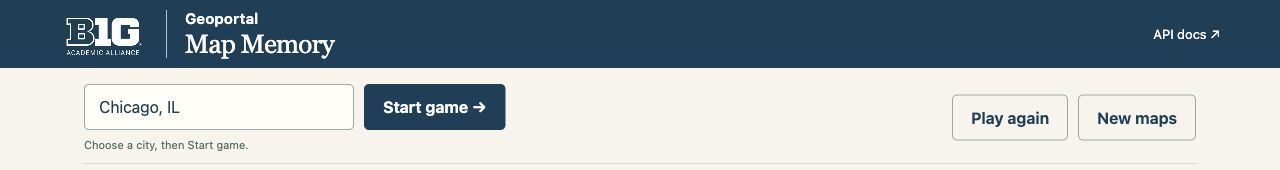
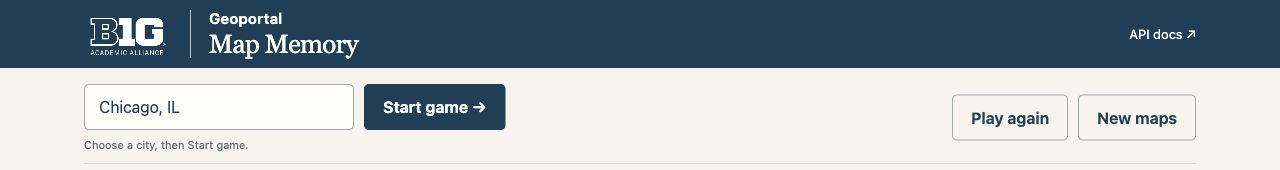
Align Map Memory sections to one shared page width

Changed region(s): [[0.0312, 0.0588, 0.2812, 0.3529], [0.875, 0.1765, 0.9688, 0.2353]]

diff --git a/apps/map-memory/styles.css b/apps/map-memory/styles.css
@@ -6,6 +6,8 @@
   --blue:#163f59;
   --line:#d7d9cc;
   --green:#345e46;
+  --page-gutter:24px;
+  --page-max-width:1112px;
 }
 * {
   box-sizing:border-box;
@@ -44,24 +46,30 @@ button:focus-visible,a:focus-visible,input:focus-visible {
 [hidden] {
   display:none!important;
 }
+.page-width {
+  width:min(var(--page-max-width),calc(100% - 2 * var(--page-gutter)));
+  margin-inline:auto;
+}
 .app-header {
   position:sticky;
   top:0;
   z-index:5;
   min-height:68px;
-  padding:8px max(24px,calc((100vw - 1160px)/2));
-  display:flex;
-  align-items:center;
-  justify-content:space-between;
-  gap:20px;
+  padding:8px 0;
   background:var(--blue);
   color:#fff;
   font-size:13px;
 }
+.header-inner {
+  display:flex;
+  align-items:center;
+  justify-content:space-between;
+  gap:20px;
+}
 .app-header a {
   text-decoration:none;
 }
-.app-header > a:last-child {
+.header-inner > a:last-child {
   white-space:nowrap;
 }
 .brand {
@@ -103,9 +111,7 @@ h1 {
   white-space:nowrap;
 }
 main {
-  max-width:1160px;
-  margin:auto;
-  padding:16px 24px 0;
+  padding:16px 0 0;
 }
 .eyebrow {
   text-transform:uppercase;
@@ -234,8 +240,7 @@ h2 {
   display:grid;
   grid-template-columns:repeat(4,minmax(0,1fr));
   gap:12px;
-  width:min(100%,var(--board-width,100%));
-  margin-inline:auto;
+  width:100%;
 }
 .card {
   position:relative;
@@ -402,8 +407,7 @@ h2 {
   line-height:1.5;
 }
 footer {
-  max-width:1112px;
-  margin:10px auto 0;
+  margin-top:10px;
   padding:24px 0;
   display:flex;
   justify-content:space-between;
@@ -424,12 +428,17 @@ footer {
   border:0;
 }
 @media(max-width:700px) {
+  :root {
+    --page-gutter:12px;
+  }
   main {
-    padding:12px 12px 0;
+    padding:12px 0 0;
   }
   .app-header {
     min-height:56px;
-    padding:8px 12px;
+    padding:8px 0;
+  }
+  .header-inner {
     gap:8px;
   }
   .toolbar {
@@ -478,7 +487,6 @@ footer {
     display:block;
   }
   footer {
-    margin:0 16px;
     flex-direction:column;
   }
   .brand {

diff --git a/apps/map-memory/index.html b/apps/map-memory/index.html
@@ -12,10 +12,12 @@
 <body>
   <canvas id="confetti" aria-hidden="true" hidden></canvas>
   <header class="app-header">
-    <a class="brand" href="../../"><img class="brand-logo" src="assets/btaa-logo.png" alt="Big Ten Academic Alliance" width="651" height="383"><div class="brand-wordmark"><span class="brand-caption">Geoportal</span><h1 id="title">Map Memory</h1></div></a>
-    <a href="https://geo.btaa.org/api/docs">API docs ↗</a>
+    <div class="header-inner page-width">
+      <a class="brand" href="../../"><img class="brand-logo" src="assets/btaa-logo.png" alt="Big Ten Academic Alliance" width="651" height="383"><div class="brand-wordmark"><span class="brand-caption">Geoportal</span><h1 id="title">Map Memory</h1></div></a>
+      <a href="https://geo.btaa.org/api/docs">API docs ↗</a>
+    </div>
   </header>
-  <main>
+  <main class="page-width">
     <section class="toolbar" aria-label="Game controls">
       <form id="cityForm">
         <label class="sr-only" for="citySearch">Choose a city</label>
@@ -50,6 +52,6 @@
       <aside class="map-metadata" aria-label="Map metadata"><dl id="mapMetadata"></dl><p id="mapDescription"></p><a id="mapRecordLink" class="record-action" target="_blank" rel="noreferrer">Explore in the BTAA Geoportal ↗</a><p class="help">Your game is paused while you explore.</p></aside>
     </div>
   </dialog>
-  <footer><span>Powered by the <a href="https://geo.btaa.org/api/docs">BTAA Geospatial API</a></span><span>Live maps from library collections · <a href="../../">All example apps</a></span></footer>
+  <footer class="page-width"><span>Powered by the <a href="https://geo.btaa.org/api/docs">BTAA Geospatial API</a></span><span>Live maps from library collections · <a href="../../">All example apps</a></span></footer>
 </body>
 </html>

diff --git a/apps/map-memory/app.js b/apps/map-memory/app.js
@@ -145,7 +145,6 @@ function fitBoard() {
   const available = window.innerHeight - top - 20 - gap * (rows - 1);
   const height = Math.max(compact ? 72 : 96, Math.min(compact ? 120 : 180, Math.floor(available / rows)));
   board.style.setProperty('--card-height', `${height}px`);
-  board.style.setProperty('--board-width', compact ? '100%' : `${height * 1.45 * 4 + gap * 3}px`);
 }
 const layoutObserver = new ResizeObserver(() => requestAnimationFrame(fitBoard));
 for (const element of [document.querySelector('.app-header'), document.querySelector('.toolbar'), document.querySelector('.board-heading'), $('status')]) layoutObserver.observe(element);

diff --git a/apps/map-memory/README.md b/apps/map-memory/README.md
@@ -130,6 +130,8 @@ the lockup links back to the example-app gallery. The footer credits
 the BTAA Geospatial API and links to its documentation.
 
 The title lives in the compact header so the game starts directly beneath it.
+Header contents, controls, board, collection, and footer share one centered width
+and responsive side gutters; the board fills that width without another inset.
 The four-column board adapts card height to the viewport, keeping all 16 cards
 visible at the verified desktop and phone sizes. Cards have no decorative numbers;
 accessible position labels remain. A minimum card height preserves usable targets
